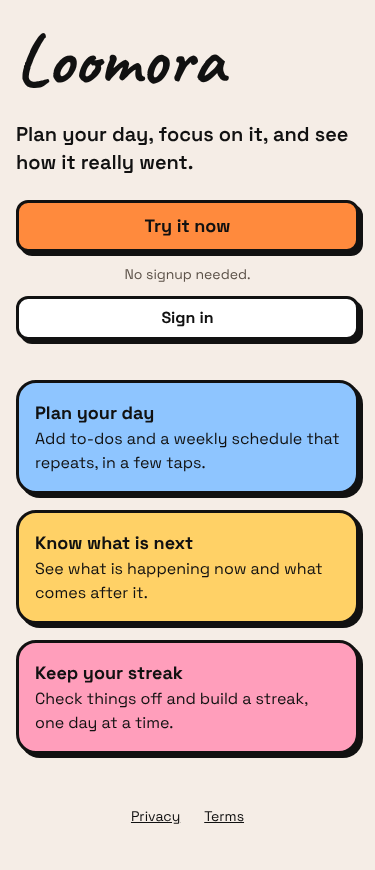
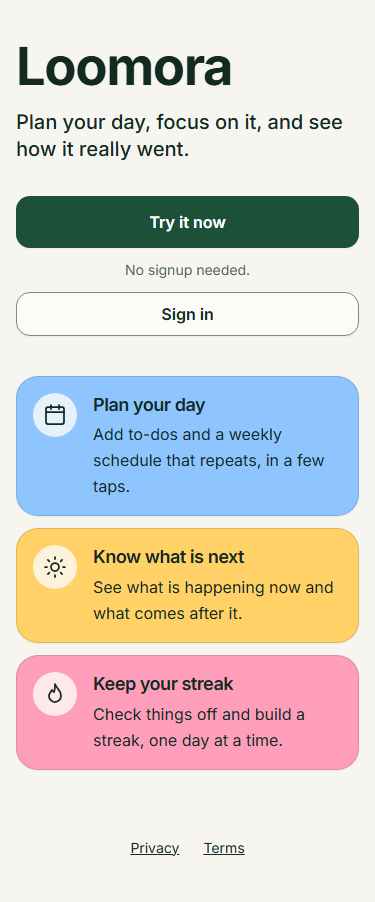
feat(landing): refine S1 landing for Elemental Edition (UX-010)
Restyle the landing hero with Inter, one forest-green primary action and a
two-column layout from md. The three highlights keep their category tones
and gain decorative nav icons. Add safe-area insets to the shared
StandalonePage, remove the unused font-script alias, and add unit and
Playwright coverage plus landing-375/1440 screenshots.

Changed region(s): [[0.0293, 0.031, 0.968, 0.869], [0.352, 0.931, 0.4987, 0.9621], [0.528, 0.931, 0.6453, 0.9621]]

diff --git a/src/features/landing/LandingPage.tsx b/src/features/landing/LandingPage.tsx
@@ -1,13 +1,20 @@
+import type { ComponentType, SVGProps } from 'react'
 import { useTranslation } from 'react-i18next'
 import { Link } from 'react-router-dom'
 import { StandalonePage } from '@/components/page'
 import { buttonClasses, Card } from '@/components/ui'
+import { StreakIcon, TodayIcon, WeekIcon } from '@/components/ui/icons'
 import type { Category } from '@/styles/tokens'
 
-const HIGHLIGHTS: readonly { id: 'plan' | 'now' | 'streak'; tone: Category }[] = [
-  { id: 'plan', tone: 'study' },
-  { id: 'now', tone: 'work' },
-  { id: 'streak', tone: 'life' },
+// Each highlight borrows the nav icon of the screen it describes.
+const HIGHLIGHTS: readonly {
+  id: 'plan' | 'now' | 'streak'
+  tone: Category
+  Icon: ComponentType<SVGProps<SVGSVGElement>>
+}[] = [
+  { id: 'plan', tone: 'study', Icon: WeekIcon },
+  { id: 'now', tone: 'work', Icon: TodayIcon },
+  { id: 'streak', tone: 'life', Icon: StreakIcon },
 ]
 
 /** S1 Landing: promise, "Try it now" (guest mode), Sign in, three highlights. */
@@ -15,11 +22,17 @@ export function LandingPage() {
   const { t } = useTranslation()
   return (
     <StandalonePage wide>
-      <div className="flex flex-1 flex-col justify-center gap-10">
-        <div className="flex flex-col gap-6 md:max-w-lg">
-          <h1 className="font-script text-7xl font-bold leading-none">{t('common.appName')}</h1>
-          <p className="text-xl font-semibold">{t('common.promise')}</p>
-          <div className="flex flex-col gap-3">
+      <div className="grid flex-1 grid-cols-[minmax(0,1fr)] content-center gap-10 py-4 md:grid-cols-[minmax(0,1.1fr)_minmax(0,1fr)] md:items-center md:gap-12 md:py-10">
+        <div className="flex flex-col gap-8">
+          <div className="flex flex-col gap-4">
+            <h1 className="font-heading text-[length:clamp(2.125rem,14vw,3.75rem)] font-bold leading-none text-ink [overflow-wrap:anywhere]">
+              {t('common.appName')}
+            </h1>
+            <p className="max-w-md text-xl font-medium leading-snug text-ink sm:text-2xl">
+              {t('common.promise')}
+            </p>
+          </div>
+          <div className="flex flex-col gap-3 sm:max-w-sm">
             <Link
               to="/today"
               className={buttonClasses({ as: 'link', size: 'lg', fullWidth: true })}
@@ -39,12 +52,19 @@ export function LandingPage() {
           <h2 id="highlights-heading" className="sr-only">
             {t('landing.highlightsLabel')}
           </h2>
-          <ul className="grid gap-4 md:grid-cols-3">
-            {HIGHLIGHTS.map(({ id, tone }) => (
+          <ul className="grid gap-3">
+            {HIGHLIGHTS.map(({ id, tone, Icon }) => (
               <li key={id}>
-                <Card tone={tone} className="h-full">
-                  <h3 className="text-lg font-bold">{t(`landing.highlights.${id}.title`)}</h3>
-                  <p>{t(`landing.highlights.${id}.body`)}</p>
+                <Card tone={tone} className="flex h-full flex-wrap items-start gap-x-4 gap-y-3">
+                  <span className="grid size-11 shrink-0 place-items-center rounded-full bg-paper/80 text-ink">
+                    <Icon className="size-6" />
+                  </span>
+                  <div className="flex min-w-0 flex-1 basis-48 flex-col gap-1 [overflow-wrap:anywhere]">
+                    <h3 className="text-lg font-semibold leading-snug tracking-tight">
+                      {t(`landing.highlights.${id}.title`)}
+                    </h3>
+                    <p className="leading-relaxed">{t(`landing.highlights.${id}.body`)}</p>
+                  </div>
                 </Card>
               </li>
             ))}

diff --git a/src/features/landing/LandingPage.test.tsx b/src/features/landing/LandingPage.test.tsx
@@ -1,4 +1,5 @@
 import { screen, within } from '@testing-library/react'
+import userEvent from '@testing-library/user-event'
 import { renderRoute } from '@/test/renderRoute'
 
 describe('Landing page (S1)', () => {
@@ -8,19 +9,70 @@ describe('Landing page (S1)', () => {
     expect(
       screen.getByText('Plan your day, focus on it, and see how it really went.'),
     ).toBeVisible()
+    expect(screen.getByText('No signup needed.')).toBeVisible()
     expect(screen.getByRole('link', { name: 'Try it now' })).toHaveAttribute('href', '/today')
     expect(screen.getByRole('link', { name: 'Sign in' })).toHaveAttribute('href', '/sign-in')
   })
 
-  it('lists three feature highlights', async () => {
+  it('uses Inter headings instead of the legacy script font', async () => {
+    renderRoute('/')
+    const heading = await screen.findByRole('heading', { level: 1, name: 'Loomora' })
+    expect(heading).toHaveClass('font-heading')
+    expect(document.querySelector('.font-script')).toBeNull()
+  })
+
+  it('makes Try it now the only primary action, with 44 px targets', async () => {
+    renderRoute('/')
+    const tryIt = await screen.findByRole('link', { name: 'Try it now' })
+    const signIn = screen.getByRole('link', { name: 'Sign in' })
+    expect(tryIt).toHaveClass('bg-primary')
+    expect(signIn).not.toHaveClass('bg-primary')
+    expect(tryIt).toHaveClass('min-h-[52px]')
+    expect(signIn).toHaveClass('min-h-touch')
+  })
+
+  it('reaches Try it now then Sign in by keyboard', async () => {
+    const user = userEvent.setup()
+    renderRoute('/')
+    await screen.findByRole('heading', { level: 1, name: 'Loomora' })
+    const tryIt = screen.getByRole('link', { name: 'Try it now' })
+    const signIn = screen.getByRole('link', { name: 'Sign in' })
+    while (document.activeElement !== tryIt) await user.tab()
+    await user.tab()
+    expect(signIn).toHaveFocus()
+  })
+
+  it('opens empty Today as a guest from Try it now', async () => {
+    const user = userEvent.setup()
+    renderRoute('/')
+    await user.click(await screen.findByRole('link', { name: 'Try it now' }))
+    expect(await screen.findByRole('button', { name: 'Add a to-do' })).toBeInTheDocument()
+  })
+
+  it('opens Sign in from the landing page', async () => {
+    const user = userEvent.setup()
+    renderRoute('/')
+    await user.click(await screen.findByRole('link', { name: 'Sign in' }))
+    expect(await screen.findByRole('heading', { level: 1, name: 'Sign in' })).toBeInTheDocument()
+  })
+
+  it('lists three feature highlights in their category tones with decorative icons', async () => {
     renderRoute('/')
     const list = within(await screen.findByRole('region', { name: 'What you get' })).getByRole(
       'list',
     )
-    const titles = within(list)
-      .getAllByRole('heading', { level: 3 })
-      .map((h) => h.textContent)
-    expect(titles).toEqual(['Plan your day', 'Know what is next', 'Keep your streak'])
+    const items = within(list).getAllByRole('listitem')
+    expect(
+      items.map((item) => within(item).getByRole('heading', { level: 3 }).textContent),
+    ).toEqual(['Plan your day', 'Know what is next', 'Keep your streak'])
+    expect(items.map((item) => item.firstElementChild?.className)).toEqual([
+      expect.stringContaining('bg-category-study'),
+      expect.stringContaining('bg-category-work'),
+      expect.stringContaining('bg-category-life'),
+    ])
+    for (const item of items) {
+      expect(item.querySelector('svg')).toHaveAttribute('aria-hidden', 'true')
+    }
   })
 
   it('has Privacy and Terms in the footer', async () => {

diff --git a/e2e/landing.spec.ts b/e2e/landing.spec.ts
@@ -1,0 +1,81 @@
+import AxeBuilder from '@axe-core/playwright'
+import { expect, test, type Page } from '@playwright/test'
+
+test.use({ reducedMotion: 'reduce' })
+
+const WIDTHS = [320, 375, 390, 768, 1024, 1440] as const
+
+async function horizontalOverflow(page: Page): Promise<number> {
+  return page.evaluate(
+    () => document.documentElement.scrollWidth - document.documentElement.clientWidth,
+  )
+}
+
+test.skip(
+  ({ browserName, viewport }) => browserName !== 'chromium' || viewport?.width !== 375,
+  'Viewport sweep runs once on phone-375',
+)
+
+test('Try it now opens empty Today as a guest and Sign in opens sign-in', async ({ page }) => {
+  await page.goto('/')
+  await page.getByRole('link', { name: 'Try it now' }).click()
+  await expect(page).toHaveURL(/\/today$/)
+  await expect(page.getByRole('button', { name: 'Add a to-do' })).toBeVisible()
+
+  await page.goto('/')
+  await page.getByRole('link', { name: 'Sign in' }).click()
+  await expect(page).toHaveURL(/\/sign-in$/)
+  await expect(page.getByRole('heading', { level: 1, name: 'Sign in' })).toBeVisible()
+})
+
+test('keyboard reaches Try it now and Sign in with a visible focus ring', async ({ page }) => {
+  await page.goto('/')
+  const tryIt = page.getByRole('link', { name: 'Try it now' })
+  for (let i = 0; i < 5 && !(await tryIt.evaluate((el) => el === document.activeElement)); i++) {
+    await page.keyboard.press('Tab')
+  }
+  await expect(tryIt).toBeFocused()
+  expect(await tryIt.evaluate((el) => getComputedStyle(el).outlineStyle)).toBe('solid')
+  await page.keyboard.press('Tab')
+  await expect(page.getByRole('link', { name: 'Sign in' })).toBeFocused()
+})
+
+test('landing passes axe and keeps every target at least 44 px', async ({ page }) => {
+  await page.goto('/')
+  await expect(page.getByRole('heading', { level: 1, name: 'Loomora' })).toBeVisible()
+  const results = await new AxeBuilder({ page }).analyze()
+  expect(results.violations).toEqual([])
+  const targets = page
+    .getByRole('main')
+    .getByRole('link')
+    .or(page.getByRole('contentinfo').getByRole('link'))
+  for (const link of await targets.all()) {
+    const box = await link.boundingBox()
+    expect(box?.height ?? 0).toBeGreaterThanOrEqual(44)
+    expect(box?.width ?? 0).toBeGreaterThanOrEqual(44)
+  }
+})
+
+test('landing has no horizontal overflow at 320–1440 px, at 100% and 200% text', async ({
+  page,
+}) => {
+  for (const width of WIDTHS) {
+    await page.setViewportSize({ width, height: 900 })
+    await page.goto('/')
+    await expect(page.getByRole('heading', { level: 1, name: 'Loomora' })).toBeVisible()
+    expect(await horizontalOverflow(page), `${width} px`).toBeLessThanOrEqual(0)
+    await page.evaluate(() => {
+      document.documentElement.style.fontSize = '200%'
+    })
+    expect(await horizontalOverflow(page), `${width} px at 200%`).toBeLessThanOrEqual(0)
+  }
+})
+
+test('other standalone pages keep 0 px overflow at 320 px', async ({ page }) => {
+  await page.setViewportSize({ width: 320, height: 800 })
+  for (const path of ['/sign-in', '/sign-up', '/privacy', '/terms', '/missing-page']) {
+    await page.goto(path)
+    await expect(page.getByRole('heading', { level: 1 })).toBeVisible()
+    expect(await horizontalOverflow(page), path).toBeLessThanOrEqual(0)
+  }
+})

diff --git a/src/components/page/StandalonePage.tsx b/src/components/page/StandalonePage.tsx
@@ -16,7 +16,7 @@ export function StandalonePage({
   return (
     <div
       className={cn(
-        'mx-auto flex min-h-dvh w-full flex-col px-4 pb-8 pt-6',
+        'mx-auto flex min-h-dvh w-full flex-col pb-[max(2rem,env(safe-area-inset-bottom))] pl-[max(1rem,env(safe-area-inset-left))] pr-[max(1rem,env(safe-area-inset-right))] pt-[max(1.5rem,env(safe-area-inset-top))]',
         wide ? 'max-w-4xl' : 'max-w-lg',
       )}
     >
@@ -27,7 +27,7 @@ export function StandalonePage({
       >
         {children}
       </main>
-      <footer className="mt-10 flex justify-center gap-2 text-sm">
+      <footer className="mt-10 flex flex-wrap justify-center gap-2 text-sm">
         <Link to="/privacy" className="inline-flex min-h-touch items-center px-2 underline">
           {t('pages.privacy.title')}
         </Link>

diff --git a/src/styles/tokens.test.ts b/src/styles/tokens.test.ts
@@ -61,7 +61,6 @@ describe('Elemental Edition design tokens (DEC-003)', () => {
   it('uses self-hosted Inter across heading and body stacks and approved DEC-003 radii/motion', () => {
     expect(fontFamily.body[0]).toBe('"Inter Variable"')
     expect(fontFamily.heading).toEqual(fontFamily.body)
-    expect(fontFamily.script).toEqual(fontFamily.body)
     expect(radius).toEqual({ sm: '8px', md: '14px', lg: '22px' })
     expect(motion.duration).toEqual({ fast: '160ms', base: '200ms', slow: '240ms' })
   })

diff --git a/src/styles/tokens.ts b/src/styles/tokens.ts
@@ -85,8 +85,6 @@ const INTER_STACK = ['"Inter Variable"', 'Inter', 'system-ui', 'sans-serif'] as 
 export const fontFamily = {
   heading: INTER_STACK,
   body: INTER_STACK,
-  // Alias retained so existing heading classes immediately adopt Inter before UX-004+ cleanup.
-  script: INTER_STACK,
 } as const
 
 /** WCAG 2.1 relative luminance of a #RRGGBB color. */

diff --git a/tailwind.config.ts b/tailwind.config.ts
@@ -67,7 +67,6 @@ export default {
       },
       fontFamily: {
         heading: [...fontFamily.heading],
-        script: [...fontFamily.script],
         body: [...fontFamily.body],
       },
       minHeight: {

diff --git a/src/styles/index.css b/src/styles/index.css
@@ -20,8 +20,7 @@
     @apply outline outline-[3px] outline-offset-2 outline-primary;
   }
 
-  .font-heading,
-  .font-script {
+  .font-heading {
     letter-spacing: -0.025em;
   }
 }

diff --git a/docs/PROGRESS.md b/docs/PROGRESS.md
@@ -1089,3 +1089,23 @@ The planner approved the five lifecycle decisions above on 2026-11-24. [DEC-004]
 - Merged v2-rebuild at edefad4 through a69c832, including QA-024. The merge preserves both task and progress entries and both branch preview exclusions.
 - Local Focus History tests passed 5/5, and phone-375 passed 90/90. Lint, typecheck, Knip, Prettier, the production build and Git diff checks passed. The production audit found zero vulnerabilities. OpenAPI lint reported four existing warnings.
 - The parallel Windows Vitest run reported timing failures in unchanged Today and Undo Delete tests. The Undo Delete rerun passed, and the first Today rerun hit a worker startup timeout. The PR CI job runs the full suite on Linux.
+
+### 2026-11-24 UX-010 — Elemental Landing Page Refinement
+
+- **Planner decisions:** Option A (safe-area insets in the shared `StandalonePage`) and removing the legacy `font-script` alias once nothing referenced it. Both were approved in the UX-010 session on 2026-11-24.
+- **Changes:**
+  - `src/features/landing/LandingPage.tsx`: The hero uses `font-heading` Inter at a fluid `clamp(2.125rem, 14vw, 3.75rem)` size instead of `font-script`. The promise is shown as a large ink subtitle. `Try it now` stays the only forest-green primary action. The muted `No signup needed.` note and the secondary `Sign in` button are kept. From `md` the hero and the highlights sit in two columns. The three highlight cards keep the shared `Card` with unchanged `study` / `work` / `life` tones and copy. Each card adds the existing decorative nav icon (`WeekIcon`, `TodayIcon`, `StreakIcon`) for the screen it describes. When space is tight, the card text wraps below the icon.
+  - `src/components/page/StandalonePage.tsx`: Top, bottom, left and right padding now use `max(<previous spacing>, env(safe-area-inset-*))`, so layouts without insets are unchanged. The footer wraps instead of overflowing its box at 320 px with 200% text.
+  - `src/styles/tokens.ts`, `tokens.test.ts`, `tailwind.config.ts`, `src/styles/index.css`: Removed the `script` font alias, its Tailwind family, its letter-spacing rule and its test assertion. A repo search found no other production, config or test references.
+  - `src/features/landing/LandingPage.test.tsx`, `e2e/landing.spec.ts`: Added tests for the Inter heading, a single primary action, 44 px targets, keyboard order, guest `Try it now` → empty Today, `Sign in` → sign-in, highlight tones and decorative icons, axe, and 0 px overflow at 320/375/390/768/1024/1440 px at 100% and 200% text. Sign in, Sign up, Privacy, Terms and 404 are also checked for 0 px overflow at 320 px.
+  - `docs/screenshots/landing-375.png` and `landing-1440.png` are new. `landing-1280.png` is kept for history.
+  - `vercel.json`: Previews are disabled for `feat/UX-010-elemental-landing`.
+- **States:** The landing page has no data, so it has no loading, empty or error states.
+- **Out of scope, unchanged:** routes, copy, category colors, auth, API, Dexie, Focus, Profile and guest import.
+- **Verification (Windows, `f277c0f` base):**
+  - `npm ci`, `npm run lint`, `npm run typecheck`, `npm run knip`, `prettier --check --end-of-line auto .`, `npm run build` and `git diff --check` all passed.
+  - Full Vitest (threads pool): 789/790. The one failure was the unchanged `ProfilePage` test "ignores a pending deletion response with status 204 after sign-in", a timing failure under parallel load. The file passed 33/33 when rerun alone, and this task does not touch Profile.
+  - Playwright `phone-375`: **95/95 passed**, including the 6 new landing tests and the existing legal tests.
+  - `npm audit --omit=dev`: 0 vulnerabilities. `npx @redocly/cli lint docs/openapi.yaml`: valid, with the 4 existing warnings.
+  - Landing showed 0 px overflow at 320, 375, 390, 768, 1024 and 1440 px at 100% and 200% text, with zero axe violations. Sign in, Sign up, Privacy, Terms and 404 showed 0 px overflow at 320 px.
+- GitHub CLI is not authenticated. The branch is pushed so the planner can open the PR into `v2-rebuild` and start the two required CI jobs.

diff --git a/docs/TASKS.md b/docs/TASKS.md
@@ -797,7 +797,7 @@ Source: `docs/research/daycraft-gap-analysis.md` and `docs/research/daycraft-tas
 
 ### UX-010: Elemental Landing Page Refinement
 
-- **Status:** doing
+- **Status:** review
 - **Owner:** claude (CLI 1)
 - **Source:** Approved `DEC-003` (`UX-002`, PR #52) and the merged Elemental Today (`UX-007`, PR #59) and Week (`UX-008`, PR #61) screens. Planner-assigned 2026-11-24; ID confirmed unused in `docs/TASKS.md`, `docs/PROGRESS.md` and remote branches. Planner approved Option A (safe-area insets in the shared `StandalonePage`) and removing the legacy `font-script` alias once nothing references it.
 - **Scope:** Visual refinement of S1 Landing only (`docs/05` S1). Keep the tagline, all existing copy, the `Try it now` → `/today` guest entry, `Sign in` → `/sign-in`, the three highlights and their category tones. No auth, API, Dexie, Focus, Profile, or guest-import changes. Landing has no data, so it has no loading, empty or error states.
@@ -805,10 +805,10 @@ Source: `docs/research/daycraft-gap-analysis.md` and `docs/research/daycraft-tas
   1. Branch `feat/UX-010-elemental-landing` from `origin/v2-rebuild` (`f277c0f`) in isolated worktree `loomora-front-UX-010`, and disable Vercel previews for it.
   2. Add top/bottom/left/right safe-area insets to the shared `StandalonePage` using the existing spacing scale, then check Landing, Sign in/up, Privacy, Terms and 404 for regressions.
   3. Restyle the Landing hero with `font-heading` Inter (fluid size, tight tracking), the muted no-signup note, one forest-green primary action plus a secondary Sign in, and a two-column hero/highlights composition from `md`.
-  4. Refine the three highlight cards with the shared `Card` (category tones unchanged), a category name in text, and Inter headings; then remove the unused `font-script` alias from `tokens.ts`, `tailwind.config.ts`, `index.css` and `tokens.test.ts`.
+  4. Refine the three highlight cards with the shared `Card` (category tones unchanged), Inter headings and the existing decorative nav icons (Week, Today, Streak) for the screens each highlight describes; then remove the unused `font-script` alias from `tokens.ts`, `tailwind.config.ts`, `index.css` and `tokens.test.ts`.
   5. Update `LandingPage` unit tests (structure, touch targets, no `font-script`) and add a Playwright landing spec (guest and sign-in routing, 0 px overflow at 320–1440 px and 200% text, axe), then run every required check and capture `landing-375.png` / `landing-1440.png`.
 - **Done when:**
-  - [ ] Landing follows `DEC-003` with zero behavior or route changes; `font-script` is gone from source, config and tests.
-  - [ ] Standalone pages respect all four safe-area insets with no visual regression at normal insets.
-  - [ ] Clean `lint`, `typecheck`, `knip`, `prettier --check`, full Vitest, `build`, Playwright `phone-375`, `npm audit --omit=dev`, Redocly OpenAPI lint, and `git diff --check`; 320–1440 px and 200% text show `0 px` overflow.
+  - [x] Landing follows `DEC-003` with zero behavior or route changes; `font-script` is gone from source, config and tests.
+  - [x] Standalone pages respect all four safe-area insets with no visual regression at normal insets.
+  - [x] Clean `lint`, `typecheck`, `knip`, `prettier --check`, full Vitest, `build`, Playwright `phone-375`, `npm audit --omit=dev`, Redocly OpenAPI lint, and `git diff --check`; 320–1440 px and 200% text show `0 px` overflow.
 - **Files:** `src/features/landing/LandingPage.tsx`, `src/features/landing/LandingPage.test.tsx`, `src/components/page/StandalonePage.tsx`, `src/styles/tokens.ts`, `src/styles/tokens.test.ts`, `src/styles/index.css`, `tailwind.config.ts`, `e2e/landing.spec.ts`, `src/i18n/en.json`, `vercel.json`, `docs/screenshots/landing-375.png`, `docs/screenshots/landing-1440.png`, `docs/TASKS.md`, `docs/PROGRESS.md`
